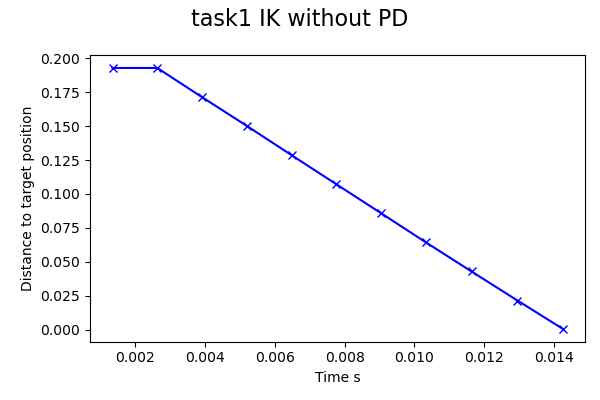
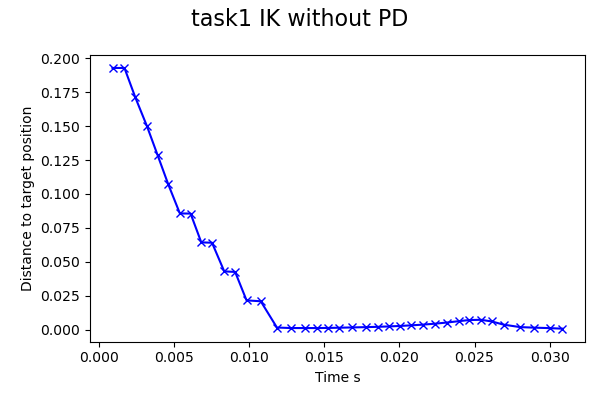
task 3.2 start

diff --git a/task3_2/task3_2_docking_template.py b/task3_2/task3_2_docking_template.py
@@ -46,74 +46,85 @@ robotConfigs = {
 
 sim = Simulation(pybulletConfigs, robotConfigs)
 
+
 ##### Please leave this function unchanged, feel free to modify others #####
 def getReadyForTask():
     global finalTargetPos
     global taleId, cubeId, targetId, obstacle
-    finalTargetPos = np.array([0.35,0.38,1.0])
+    finalTargetPos = np.array([0.35, 0.38, 1.0])
     # compile target urdf
     urdf_compiler_path = core_path + "/urdf_compiler.py"
     subprocess.call([urdf_compiler_path,
-                     "-o", abs_path+"/lib/task_urdfs/task3_2_target_compiled.urdf",
-                     abs_path+"/lib/task_urdfs/task3_2_target.urdf"])
+                     "-o", abs_path + "/lib/task_urdfs/task3_2_target_compiled.urdf",
+                     abs_path + "/lib/task_urdfs/task3_2_target.urdf"])
 
     sim.p.resetJointState(bodyUniqueId=1, jointIndex=12, targetValue=-0.4)
     sim.p.resetJointState(bodyUniqueId=1, jointIndex=6, targetValue=-0.4)
 
     # load the table in front of the robot
     tableId = sim.p.loadURDF(
-        fileName              = abs_path+"/lib/task_urdfs/table/table_taller.urdf",
-        basePosition          = [0.8, 0, 0],             
-        baseOrientation       = sim.p.getQuaternionFromEuler([0,0,math.pi/2]),                                  
-        useFixedBase          = True,             
-        globalScaling         = 1.4
+        fileName=abs_path + "/lib/task_urdfs/table/table_taller.urdf",
+        basePosition=[0.8, 0, 0],
+        baseOrientation=sim.p.getQuaternionFromEuler([0, 0, math.pi / 2]),
+        useFixedBase=True,
+        globalScaling=1.4
     )
     cubeId = sim.p.loadURDF(
-        fileName              = abs_path+"/lib/task_urdfs/cubes/task3_2_dumb_bell.urdf", 
-        basePosition          = [0.5, 0, 1.1],            
-        baseOrientation       = sim.p.getQuaternionFromEuler([0,0,0]),                                  
-        useFixedBase          = False,             
-        globalScaling         = 1.4
+        fileName=abs_path + "/lib/task_urdfs/cubes/task3_2_dumb_bell.urdf",
+        basePosition=[0.5, 0, 1.1],
+        baseOrientation=sim.p.getQuaternionFromEuler([0, 0, 0]),
+        useFixedBase=False,
+        globalScaling=1.4
     )
-    sim.p.resetVisualShapeData(cubeId, -1, rgbaColor=[1,1,0,1])
-    
+    sim.p.resetVisualShapeData(cubeId, -1, rgbaColor=[1, 1, 0, 1])
+
     targetId = sim.p.loadURDF(
-        fileName              = abs_path+"/lib/task_urdfs/task3_2_target_compiled.urdf",
-        basePosition          = finalTargetPos,             
-        baseOrientation       = sim.p.getQuaternionFromEuler([0,0,math.pi/4]), 
-        useFixedBase          = True,             
-        globalScaling         = 1
+        fileName=abs_path + "/lib/task_urdfs/task3_2_target_compiled.urdf",
+        basePosition=finalTargetPos,
+        baseOrientation=sim.p.getQuaternionFromEuler([0, 0, math.pi / 4]),
+        useFixedBase=True,
+        globalScaling=1
     )
     obstacle = sim.p.loadURDF(
-        fileName              = abs_path+"/lib/task_urdfs/cubes/task3_2_obstacle.urdf",
-        basePosition          = [0.43,0.275,0.9],             
-        baseOrientation       = sim.p.getQuaternionFromEuler([0,0,math.pi/4]), 
-        useFixedBase          = True,             
-        globalScaling         = 1
+        fileName=abs_path + "/lib/task_urdfs/cubes/task3_2_obstacle.urdf",
+        basePosition=[0.43, 0.275, 0.9],
+        baseOrientation=sim.p.getQuaternionFromEuler([0, 0, math.pi / 4]),
+        useFixedBase=True,
+        globalScaling=1
     )
 
     for _ in range(300):
         sim.tick()
-        time.sleep(1./1000)
+        time.sleep(1. / 1000)
 
     return tableId, cubeId, targetId
 
 
 def solution():
     # TODO: Add your code here
-    goals = [[0.4, -0.1, 0.10],[0.4, -0.1, 0.5],[0.2, 0.3, 0.5]]
-    threshold = 0.2
-    goalOrient = [0, 1, 0] 
+    goals = [[0.45, 0.10, 0.25], [0.45, 0.10, 0.25], [0.4, 0.10, 0.30]]
+    threshold = 0.1
+    goalOrient = [0, -1, 0]
     for k in goals:
-        targetL = sim.inverseKinematics('RARM_JOINT5', k, goalOrient
-                                       , 10, 100, 1e-3)
-        k[1] += 0.2
-        targetR = sim.inverseKinematics('LARM_JOINT5', k, [0,-1,0]
-                                       , 10, 100, 1e-3)
-            
+        targetL = sim.inverseKinematics('LHAND', k, goalOrient
+                                        , 10, 1, 1e-3)
+        k[1] -= 0.2
+        #targetR = sim.inverseKinematics('RHAND', k, [0, 1, 0]
+        #                                , 10, 1, 1e-3)
+        targetR = []
+        for l in range(len(targetL)):
+            for m in range(15):
+                if (sim.jointRotationAxis[sim.jointList[m]] == np.array([0, 0, 1])).all():
+                    targetR[l][m] = -1 * targetL[l][m]
+                else:
+                    targetR[l][m] = targetL[l][m]
+        target = np.array([targetL[0]])
         for i in range(len(targetL)):
-            target = targetL[3:9] + targetR[9:15]
-        print("target= ", k)
+            target = np.append(target, np.array([np.hstack((targetL[i][0:9], targetR[i][9:15]))]), axis=0)
+            # target = list(targetL[i][0:9])+list(targetR[i][9:15])
+        # target = sim.inverseKinematics('RHAND', k, goalOrient
+        #                                , 10, 1, 1e-3)
+        print("_________target= ", k)
         for j in target:
             print("subtarget= ", sim.efForwardKinematics('RARM_JOINT5', j)[0])
             for idi, i in enumerate(sim.jointList):
@@ -121,7 +132,6 @@ def solution():
                 sim.target_vel[i] = 0.05
             q = np.array([])
             for joint in sim.jointList:
-
                 q = np.append(q, np.array([sim.getJointPos(joint)]), axis=0)
                 # print(q)
             counter = 0
@@ -130,7 +140,7 @@ def solution():
                 #        sim.efForwardKinematics('RARM_JOINT5', q)[0] - sim.efForwardKinematics('RARM_JOINT5', j)[
                 #            0]) > threshold:
                 sim.tick()
-                time.sleep(1. / 1000)
+                time.sleep(1 / 1000)
                 q = np.array([])
                 for joint in sim.jointList:
                     q = np.append(q, np.array([sim.getJointPos(joint)]), axis=0)
@@ -138,7 +148,7 @@ def solution():
                 counter += 1
                 if counter >= 2000:
                     print("____NOT REACHED_____", "position=", sim.getJointPosition('RARM_JOINT5'))
-                    print(list(sim.target_pos.values())-q)
+                    print(list(sim.target_pos.values()) - q)
 
                     break
             print("subtarget reached=", sim.getJointPosition('RARM_JOINT5'), "orientation=",
@@ -146,8 +156,8 @@ def solution():
         print("target reached=", k, "position=", sim.getJointPosition('RARM_JOINT5'), "orientation=",
               sim.getJointOrientation('RARM_JOINT5'))
 
-
     pass
+
 
 tableId, cubeId, targetId = getReadyForTask()
 solution()

diff --git a/core/Pybullet_Simulation.py b/core/Pybullet_Simulation.py
@@ -290,7 +290,7 @@ class Simulation(Simulation_base):
         orient = 0
 
         joint_class = ""
-        aeff = self.getJointOrientation(endEffector)
+        aeff = self.getJointLocationAndOrientation(endEffector)[1]@[1, 0, 0]
 
         end_pos, orient = self.getJointLocationAndOrientation(endEffector, q)
         col = np.array([np.cross(self.jointRotationAxis['CHEST_JOINT0'], end_pos - pos)])
@@ -403,7 +403,7 @@ class Simulation(Simulation_base):
 
     # Task 1.2 Inverse Kinematics
 
-    def inverseKinematics(self, endEffector, targetPosition, orientation, interpolationSteps, maxIterPerStep,
+    def inverseKinematics(self, Effector, targetPosition, orientation, interpolationSteps, maxIterPerStep,
                           threshold):
         """Your IK solver \\
         Arguments: \\
@@ -422,8 +422,13 @@ class Simulation(Simulation_base):
         # positions for all joints after performing inverse kinematics.
 
         # inits
+        if Effector == 'LHAND':
+            endEffector = 'LARM_JOINT5'
+        elif Effector == 'RHAND':
+            endEffector = 'RARM_JOINT5'
+        else:
+            endEffector = Effector
 
-    
         starting_EFpos, initOrientation = self.getJointLocationAndOrientation(endEffector)
 
         # print("initorientation=", initOrientation @ [1, 0, 0])
@@ -444,6 +449,9 @@ class Simulation(Simulation_base):
                 q = np.append(q, np.array([self.getJointPos(i)]), axis=0)
 
         trajectory = np.array([q])  # should contain the current configuration angles
+
+
+
         # need to get matrix of thetas for reaching the final position
 
         for i in range(interpolationSteps):
@@ -456,11 +464,15 @@ class Simulation(Simulation_base):
             curr_target_orientation = intermediate_orientations[i, :]
             for iteration in range(maxIterPerStep):
                 dy = curr_target - self.efForwardKinematics(endEffector, q)[0]
-                dtheta = (curr_target_orientation - (self.getJointLocationAndOrientation(endEffector, q)[1] @ [1, 0, 0]))
+                dtheta = (curr_target_orientation - (
+                            self.getJointLocationAndOrientation(endEffector, q)[1] @ [1, 0, 0]))
                 dy = np.hstack((dy, dtheta))
                 # EFpos, EForient = self.getJointLocationAndOrientation(endEffector, q)
                 # dy = curr_target - self.getJointPosition(endEffector)
                 J = self.jacobianMatrix(endEffector, q)
+                if (Effector == 'RHAND') or (
+                        Effector == 'LHAND'):
+                    J[:, 0] = np.zeros(6)
                 dq = np.matmul(np.linalg.pinv(J), dy)
                 q = q + dq
                 # trajectory = np.append(trajectory, np.array([q]), axis=0)
@@ -490,7 +502,7 @@ class Simulation(Simulation_base):
 
         return trajectory
 
-    def move_without_PD(self, endEffector, targetPosition, speed=0.01, orientation=None,
+    def move_without_PD(self, Effector, targetPosition, speed=0.01, orientation=None,
                         threshold=1e-3, maxIter=3000, debug=False, verbose=False):
         """
         Move joints using Inverse Kinematics solver (without using PD control).
@@ -501,9 +513,14 @@ class Simulation(Simulation_base):
         # TODO add your code here
         # iterate through joints and update joint states based on IK solver
 
-        # temp hotfix
+        if Effector == 'LHAND':
+            endEffector = 'LARM_JOINT5'
+        elif Effector == 'RHAND':
+            endEffector = 'RARM_JOINT5'
+        else:
+            endEffector = Effector
         targetPosition[2] -= 0.85
-        trajectory = self.inverseKinematics(endEffector, targetPosition, orientation, 10, maxIter, threshold)
+        trajectory = self.inverseKinematics(Effector, targetPosition, orientation, 10, maxIter, threshold)
         pltDistance = []
         pltTime = []
         initTime = time.time()

diff --git a/task1/task1.py b/task1/task1.py
@@ -25,7 +25,6 @@ try:
 except:
     gui = True
 
-
 ### You may want to change the code since here
 pybulletConfigs = {
     "simulation": bullet_simulation,
@@ -52,7 +51,6 @@ robotConfigs = {
 verbose = False
 debugLine = True
 
-
 # TODO: Add your code here to start simulation
 
 ref = [0, 0, 1]
@@ -62,11 +60,10 @@ sim = Simulation(pybulletConfigs, robotConfigs, refVect=ref)
 # position assumes your world frame is located at the base. If your world
 # frame is located at the waist, you will need to transform this vector using
 # the base_to_waist translation.
-# endEffector = "LARM_JOINT5"
-# targetPosition = np.array([0.37, 0.23, 1.06385])  # x,y,z coordinates in world frame
-endEffector = "LARM_JOINT5"
-targetPosition = np.array([0.37, 0.23, 1.06385])  # x,y,z coordinates in world frame
-
+endEffector = "RHAND"
+targetPosition = np.array([0.4, -0.1, 0.3])  # x,y,z coordinates in world frame
+#endEffector = "LHAND"
+#targetPosition = np.array(sim.getJointPosition('LARM_JOINT5'))  # x,y,z coordinates in world frame
 
 # #test code
 # tmats = sim.getTransformationMatrices()
@@ -75,8 +72,8 @@ targetPosition = np.array([0.37, 0.23, 1.06385])  # x,y,z coordinates in world f
 # exit()
 
 # Example code. Feel free to modify
-pltTime, pltEFPosition = sim.move_without_PD(endEffector, targetPosition, speed=0.01, orientation=None, threshold=1e-3, maxIter=3000, debug=False, verbose=False)
-
+pltTime, pltEFPosition = sim.move_without_PD(endEffector, targetPosition, speed=0.01, orientation=[0, 1, 0],
+                                             threshold=1e-2, maxIter=3000, debug=False, verbose=False)
 
 # Now plot some graphs
 task1_figure_name = "task1_kinematics.png"
@@ -85,7 +82,7 @@ task1_savefig = True
 
 fig = plt.figure(figsize=(6, 4))
 
-plt.plot(pltTime, pltEFPosition, color='blue',marker="x")
+plt.plot(pltTime, pltEFPosition, color='blue', marker="x")
 plt.xlabel("Time s")
 plt.ylabel("Distance to target position")
 
